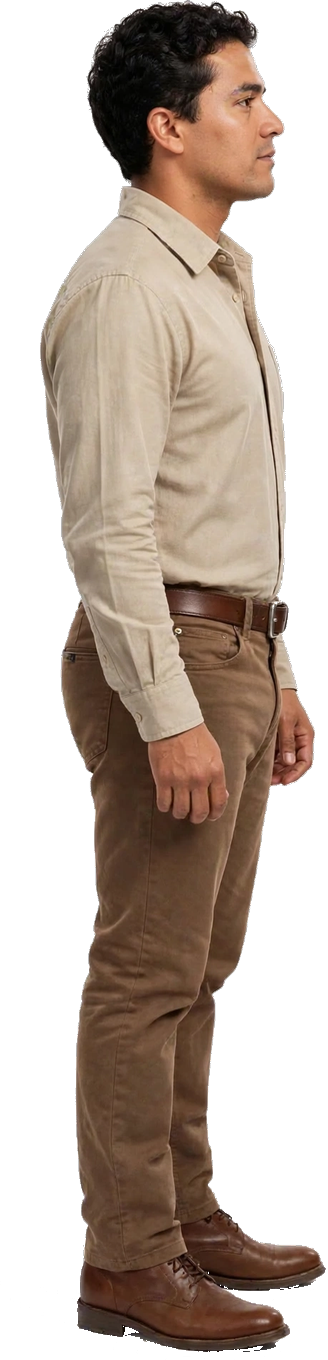
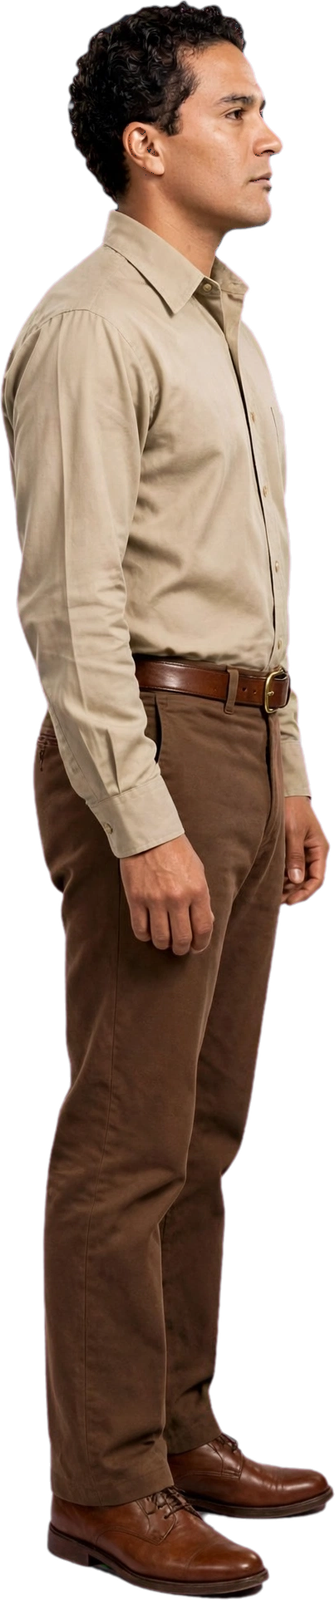
Кастанеда: новые фото анфас и профиль, старые спрайты удалены
- Исходники: assets/heroes/source/castaneda_front.png, castaneda_side.png (фигура ~1930 px)
- tools/prepare_castaneda.py: убирает пурпурную кайму по краю (было 23–30% краевых
  пикселей с отливом, стало 0.2%), обрезает поля, приводит к высоте 1600 px
- Удалены старые спрайты и исходники Кастанеды (carlos_front/side.png)

Claude-Session: https://claude.ai/code/session_018ndutf4o4iMQeUTwB7UtrW

diff --git a/tools/prepare_castaneda.py b/tools/prepare_castaneda.py
@@ -1,0 +1,42 @@
+"""Готовит спрайты Кастанеды из исходных фото с прозрачным фоном.
+
+Запуск: python3 tools/prepare_castaneda.py   (нужны pillow, numpy, scipy)
+Исходники: assets/heroes/source/castaneda_front.png, castaneda_side.png
+Результат: assets/heroes/castaneda_body.png (анфас), castaneda_side.png (профиль)
+
+Фото вырезаны с пурпурного фона, и по краю остаётся розовый отлив.
+Убираем его в полосе у края: если и красный, и синий каналы выше зелёного
+(признак пурпурного), опускаем их к зелёному. Кожа, рубашка и брюки не страдают —
+у них синий канал ниже зелёного.
+"""
+import os
+import numpy as np
+from PIL import Image
+from scipy import ndimage
+
+ROOT = os.path.join(os.path.dirname(os.path.abspath(__file__)), '..')
+SRC = os.path.join(ROOT, 'assets', 'heroes', 'source')
+OUT = os.path.join(ROOT, 'assets', 'heroes')
+HEIGHT = 1600   # хватает с запасом для экранов высокой чёткости
+
+def despill(im, band=6):
+    a = np.asarray(im).astype(np.float32)
+    rgb, al = a[..., :3], a[..., 3]
+    solid = al >= 250
+    near_edge = ~ndimage.binary_erosion(solid, iterations=band) & (al > 0)
+    r, g, b = rgb[..., 0], rgb[..., 1], rgb[..., 2]
+    spill = np.clip(np.minimum(r, b) - g, 0, None) * near_edge
+    rgb[..., 0] -= spill
+    rgb[..., 2] -= spill
+    # почти прозрачная «пыль» по краю — убираем совсем
+    al[al < 12] = 0
+    return Image.fromarray(np.dstack([np.clip(rgb, 0, 255), al]).astype(np.uint8), 'RGBA')
+
+for src, dst in [('castaneda_front', 'castaneda_body'), ('castaneda_side', 'castaneda_side')]:
+    im = Image.open(os.path.join(SRC, src + '.png')).convert('RGBA')
+    im = despill(im)
+    im = im.crop(im.getchannel('A').getbbox())
+    w = round(im.width * HEIGHT / im.height)
+    im = im.convert('RGBa').resize((w, HEIGHT), Image.LANCZOS).convert('RGBA')
+    im.save(os.path.join(OUT, dst + '.png'), optimize=True)
+    print(dst, im.size)

diff --git a/tools/cut_sprites.py b/tools/cut_sprites.py
@@ -16,8 +16,8 @@ ROOT = os.path.join(os.path.dirname(os.path.abspath(__file__)), '..')
 OUT = os.path.join(ROOT, 'assets', 'heroes')
 
 # имя: (лист, кроп фигуры в полный рост, кроп портрета)
-# Кастанеда больше не вырезается из листа: его спрайты (вид спереди и сбоку) сделаны из
-# фото в высоком качестве — assets/heroes/source/carlos_front.png и carlos_side.png.
+# Кастанеда больше не вырезается из листа: его спрайты (анфас и профиль) готовит
+# tools/prepare_castaneda.py из фото assets/heroes/source/castaneda_front.png и castaneda_side.png.
 # Портрет castaneda_portrait.jpg остаётся из листа (там крупный план лица).
 JOBS = {
     'donjuan': ('don_juan_model_sheet_1-edited.jpg', (800, 640, 1120, 1225), (30, 20, 630, 580)),

diff --git a/README.md b/README.md
@@ -131,6 +131,6 @@
 - `js/game.js` — движок: карта, бой, награды, магазин, отдых, сохранение
 - `css/style.css`, `css/intro.css` — оформление
 - `assets/audio/` — интро и музыкальная тема
-- `assets/heroes/` — спрайты и портреты героев. Кастанеда — из фото в высоком качестве (`source/carlos_front.png`, `carlos_side.png`):
+- `assets/heroes/` — спрайты и портреты героев. Кастанеда — из фото в высоком качестве (`source/castaneda_front.png`, `castaneda_side.png`, обработка — `tools/prepare_castaneda.py`):
   анфас на титуле и при выборе героя, профиль в бою и в заставке. Дон Хуан и Хенаро вырезаны из листов персонажей скриптом `tools/cut_sprites.py`
   (апскейл Real-ESRGAN ×4 через `ncnn` + `realesrgan-ncnn-py`, удаление фона вместе с просветами между руками и телом)
